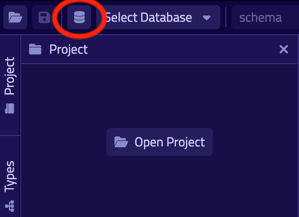
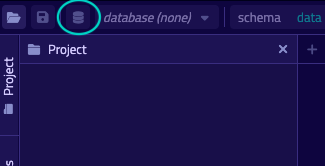
Studio screenshots update

Changed region(s): [[0.0, 0.0, 1.0, 1.0], [0.3612, 0.6024, 0.6923, 0.6928]]

diff --git a/02-clients/01-studio.md b/02-clients/01-studio.md
@@ -8,8 +8,10 @@ toc: false
 
 # TypeDB Studio
 
+![TypeDB Studio](../images/studio/studio.png)
+
 TypeDB Studio is an IDE specifically designed to work with 
-[TypeQL]() query language and TypeDB databases.
+[TypeQL](https://github.com/vaticle/typeql/blob/master/grammar/TypeQL.g4) query language and TypeDB databases.
 
 It has unique set of functions and abilities to help with development using TypeDB:
 
@@ -55,7 +57,7 @@ Make sure to grant access for installation wizard to install TypeDB Studio in ca
 [Note]
 For **macOS** TypeDB Studio can be installed via homebrew:
 
-```
+```bash
 brew tap vaticle/tap
 brew install --cask vaticle/tap/typedb-studio
 ```
@@ -113,12 +115,12 @@ Databases**] button (with a database icon) as shown below.
 Enter the name for the new database at the text field at the bottom of the `Manage Databases` window and hit 
 [**Create**].
 
-![Database Manager Empty](../images/studio/databases-interface-no-databases.png)
+![Database Manager with IAM database](../images/studio/databases-interface-iam-database.png)
 
 Our database appeared at the list of databases. Now we can close the `Manage Databases` window by clicking the 
 [**Close**] button.
 
-![Database Manager with IAM database](../images/studio/databases-interface-iam-database.png)
+
 
 ### Select active database
 
@@ -237,6 +239,8 @@ Run panel has 2 sets tabs:
   top of the Run panel). These include the `Log` tab with direct textual Studio output and the `Graph` tabs (one per 
   every query statement in the Text editor panel) with graph visualization of response.
 
+<!-- #todo add Log tab section and Graph visualization section with preview panel description --->
+
 #### Transaction control
 
 To execute a query written in the Text editor panel we have the **Toolbar** elements located right from the database 
@@ -244,32 +248,32 @@ selection drop-down menu. See below.
 
 ![Transaction controls](../images/studio/studio-transaction-controls.png)
 
-From left to right:
+From left to right (numbered respectively to the screenshot numbers):
 
-- [Session](../0001-typedb/02-dev/01-connect.md#sessions) type switch:
-  - `schema` — to use schema session type
-  - `data` — to use data session type
-- [Transaction](../0001-typedb/02-dev/01-connect.md#transactions) type switch:
-  - `write` — to use write transaction
-  - `read` — to use read transaction
-- [**snapshot**] button — enables snapshot feature that encapsulates transaction in a snapshot of a database's data 
+1. [Session](../0001-typedb/02-dev/01-connect.md#sessions) type switch:
+   - `schema` — to use schema session type
+   - `data` — to use data session type
+2. [Transaction](../0001-typedb/02-dev/01-connect.md#transactions) type switch:
+   - `write` — to use write transaction
+   - `read` — to use read transaction
+3. [**snapshot**] button — enables snapshot feature that encapsulates transaction in a snapshot of a database's data 
   until the transaction committed or closed. Write transactions are always snapshoted. May be enabled or disabled for read 
   transactions.
-- [**infer**] button — enable [inferring data](../0001-typedb/02-dev/06-infer.md) by rules. Only available for read 
+4. [**infer**] button — enable [inferring data](../0001-typedb/02-dev/06-infer.md) by rules. Only available for read 
   transactions.
-- [**explain**] button — enable [explanations](../0001-typedb/02-dev/06-infer.md#explain-query) mechanics by providing 
+5. [**explain**] button — enable [explanations](../0001-typedb/02-dev/06-infer.md#explain-query) mechanics by providing 
   `explainables` methods for results. Only available for read transactions with **snapshot** and **infer** enabled.
-- [**Transaction status**] (Circle (●) icon) indicator — transaction activity indicator. Green if there is a 
+6. [**Transaction status**] (Circle (●) icon) indicator — transaction activity indicator. Green if there is a 
   transaction 
   opened by TypeDB Studio at this moment. Gray if there is no opened transaction. Rotating animation — TypeDB 
   Studio processing the query or the results (including additional API calls).
-- [**Close transaction**] (x icon) button — close active transaction without committing the results.
-- [**Rollback transaction**] (U-turn (⟲) icon) button — revert the transaction results without closing it.
-- [**Commit transaction**] (Tick (✔) icon) button — commit the changes and close the transaction.
-- [**Run Query**] (play (▶) icon) button — run query or queries in the active tab of the Text editor panel. It will 
+7. [**Close transaction**] (x icon) button — close active transaction without committing the results.
+8. [**Rollback transaction**] (U-turn (⟲) icon) button — revert the transaction results without closing it.
+9. [**Commit transaction**] (Tick (✔) icon) button — commit the changes and close the transaction.
+10. [**Run Query**] (play (▶) icon) button — run query or queries in the active tab of the Text editor panel. It will 
   open a transaction (with the session type and transaction type specified in the Toolbar on the left) and execute 
   the TypeQL code against the selected database.
-- [**Stop Signal**] (lighting (⚡) icon) button — stop query execution after the next result.
+11. [**Stop Signal**] (lighting (⚡) icon) button — stop query execution after the next result.
 
 ##### Run query
 
@@ -283,7 +287,8 @@ database [selected](#select-active-database) and Project directory [opened](#ope
 2. Choose the correct session (`schema`/`data`) type and transaction (`read`/`write`) type to run the query by  
    clicking on those options on the Toolbar switches.
 
-3. Run query by clicking on the [**Run Query**] (▶) button. 
+3. Run query by clicking on the [**Run Query**] (▶) button. Run panel will be expanded on the bottom of the query to 
+   show the results of the query execution attempt.
 
    ![Write the Schema](../images/studio/project-schema-query-run.png)
 
